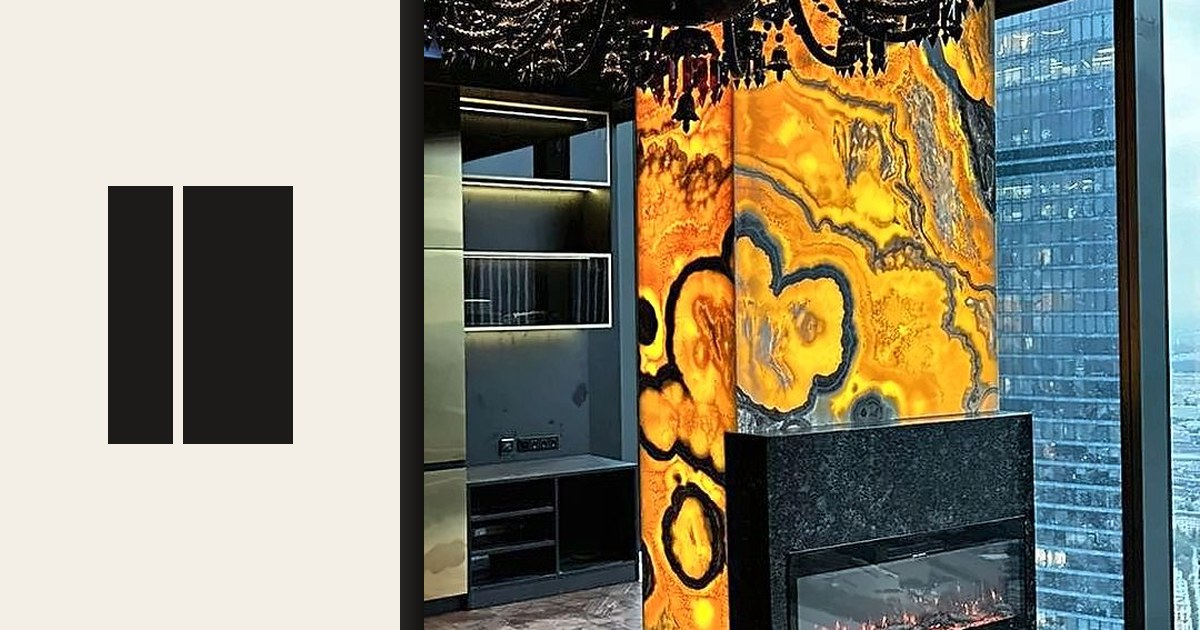
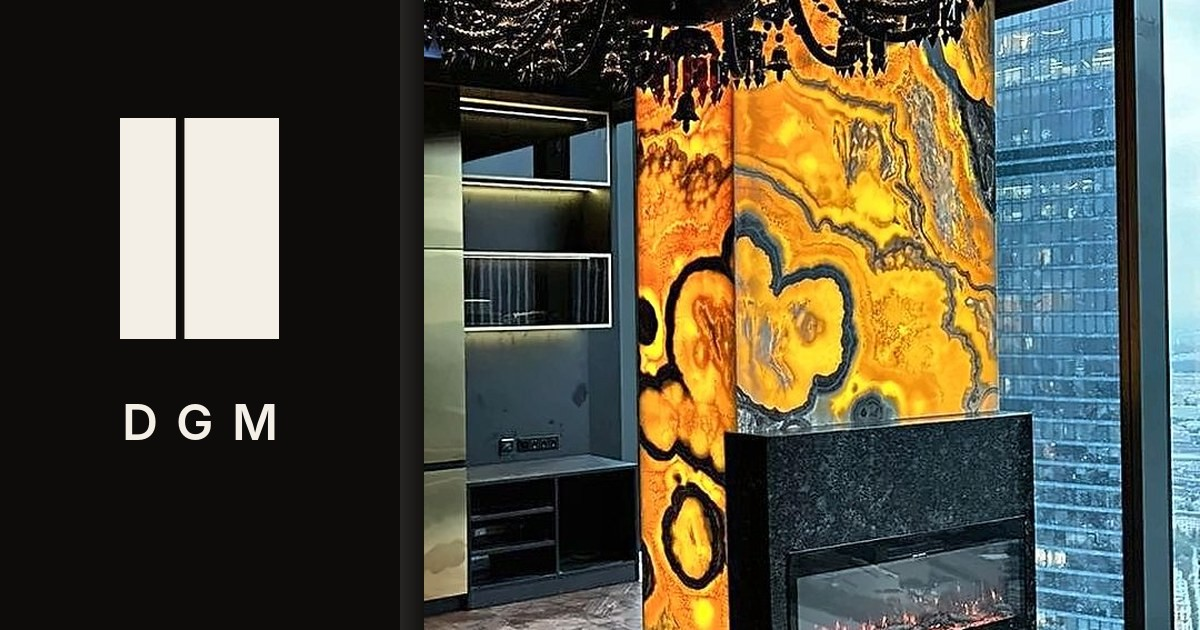
Превью ссылки: чёрная панель, белый знак и DGM
Claude-Session: https://claude.ai/code/session_01Y9chvRdvXTdBQDGsFhmWPU

Changed region(s): [[0.0, 0.0, 0.3392, 1.0]]

diff --git a/index.html b/index.html
@@ -14,7 +14,7 @@
 <meta property="og:title" content="DGM SYSTEM — внутренняя подсветка камня">
 <meta property="og:description" content="Матричная подсветка DGM-SYSTEM для оникса, кварцита и витражей: равномерное, без теней свечение, тонкие модули без нагревания, диммирование, защита IP68, гарантия 24 месяца.">
 <meta property="og:url" content="https://dg-webdesign.github.io/dgm-system/">
-<meta property="og:image" content="https://dg-webdesign.github.io/dgm-system/brand/og-image.jpg">
+<meta property="og:image" content="https://dg-webdesign.github.io/dgm-system/brand/og-image.jpg?v=2">
 <meta property="og:image:width" content="1200">
 <meta property="og:image:height" content="630">
 <meta property="og:image:alt" content="Подсвеченная колонна из оникса и знак DGM SYSTEM">
